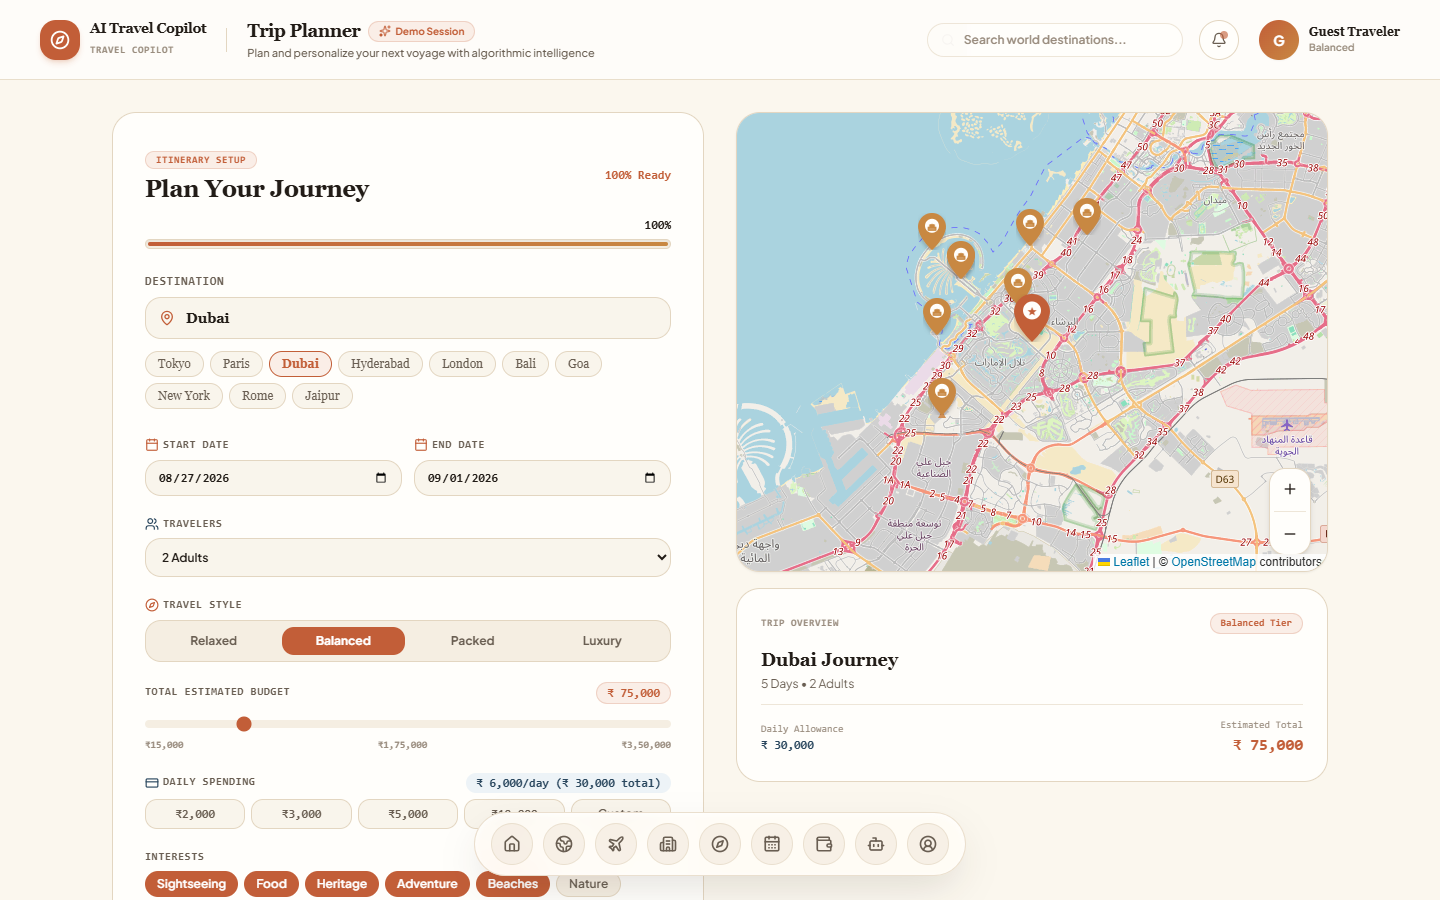
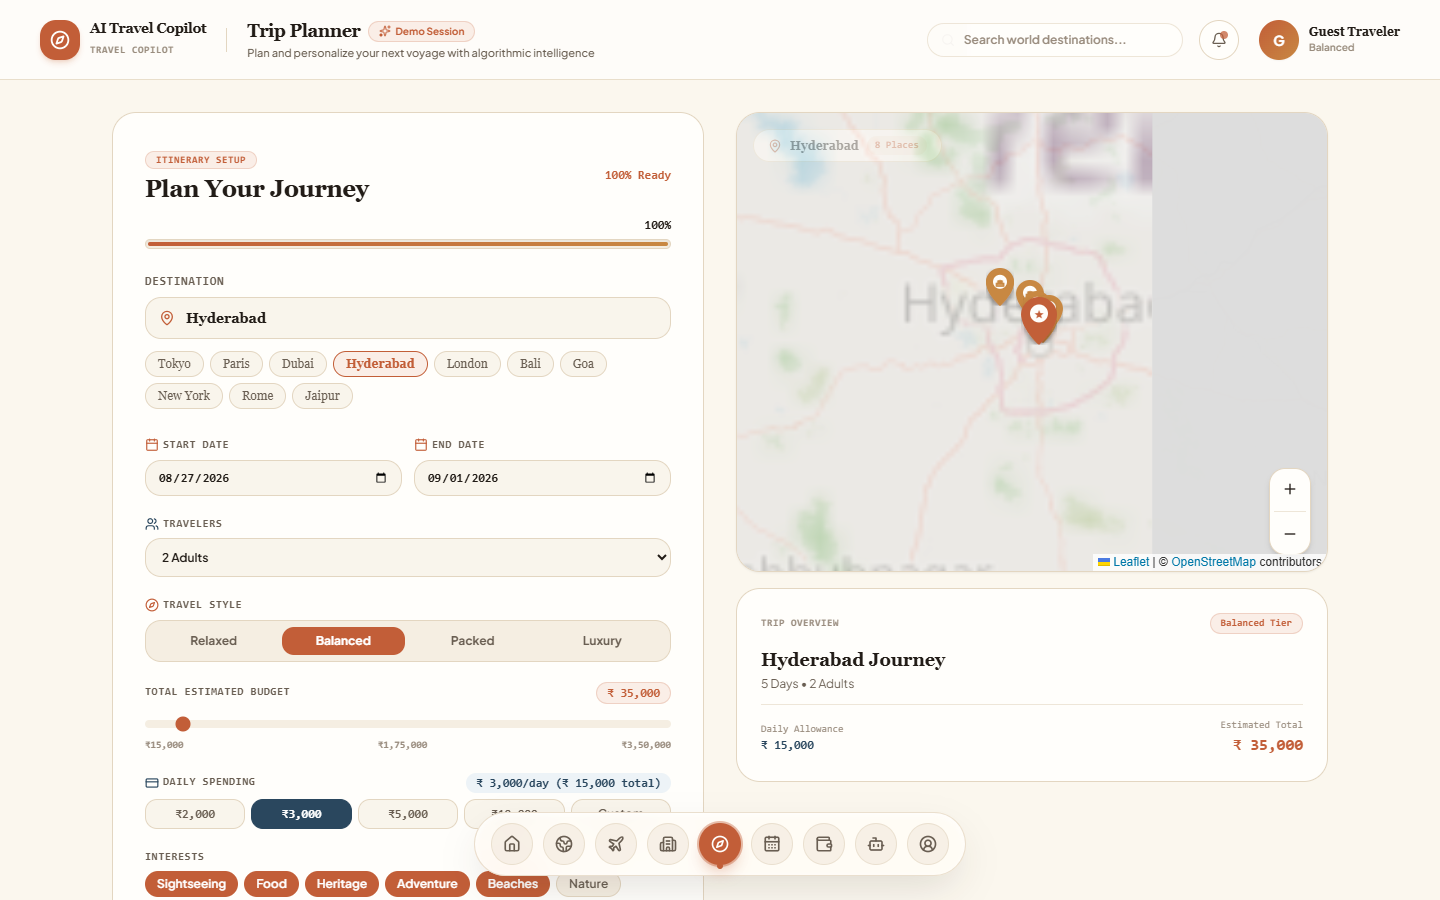
fix: image state clearing on new search, add destination photo switching audit screenshots

diff --git a/frontend/src/pages/ExplorePage.tsx b/frontend/src/pages/ExplorePage.tsx
@@ -54,6 +54,8 @@ export const ExplorePage: React.FC = () => {
     setLoading(true);
     setLoadingPlaces(true);
     setOffset(0);
+    setDestinationMeta(null);
+    setPlaces([]);
     try {
       const locRes = await travelApi.resolveDestination(cityName);
       setDestinationMeta(locRes.data);
